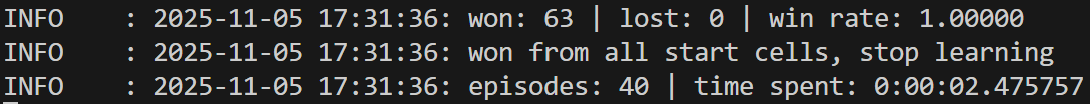
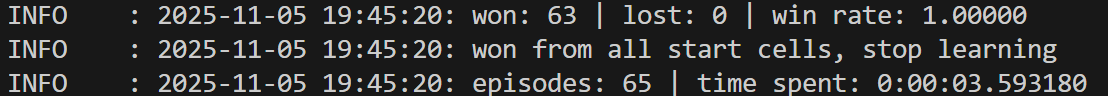
Replaced wrongly trained results

diff --git a/main.py b/main.py
@@ -25,9 +25,9 @@ class Test(Enum):
     SPEED_TEST_1 = auto()
     SPEED_TEST_2 = auto()
 
-test = Test.VALUE_ITERATION # which test to run
+test = Test.Q_ELIGIBILITY # which test to run
 
-mazeType = "normal18" # maze types
+mazeType = "blank8" # maze types
 
 if mazeType == "normal8":
     maze = np.array([
